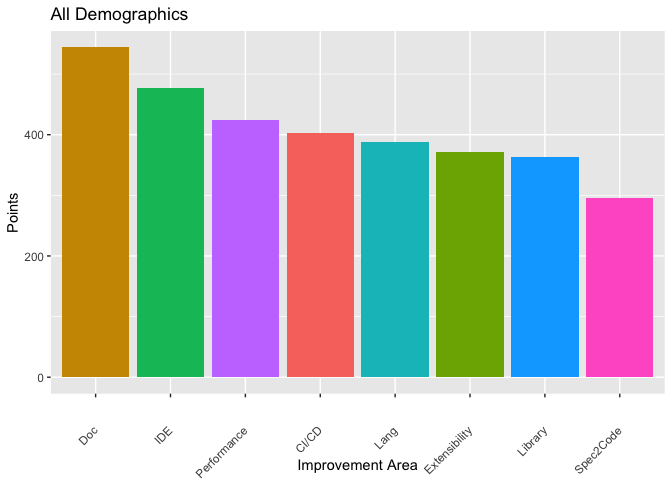
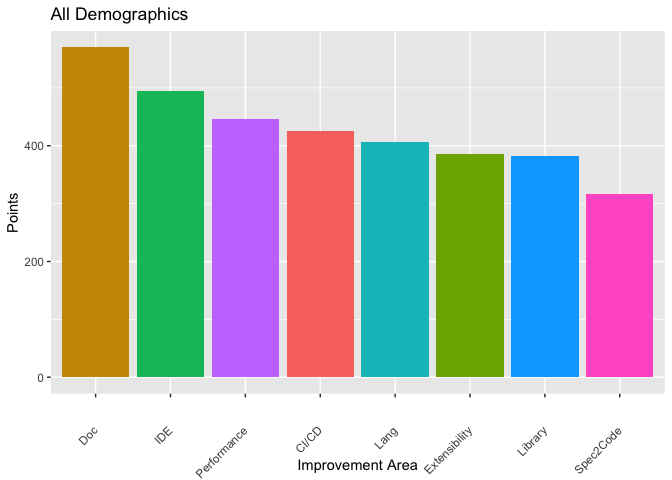
Update with latest responses

diff --git a/README.md b/README.md
@@ -1,6 +1,6 @@
 TLA+ Surveys
 ================
-(2022-05-16)
+(2022-05-19)
 
 [2022
 survey](https://docs.google.com/forms/d/1GQnqZgfJKTZgZd-TydtdqT8axvRrTdWH7M87VUt0_Wk/edit?usp=sharing)
